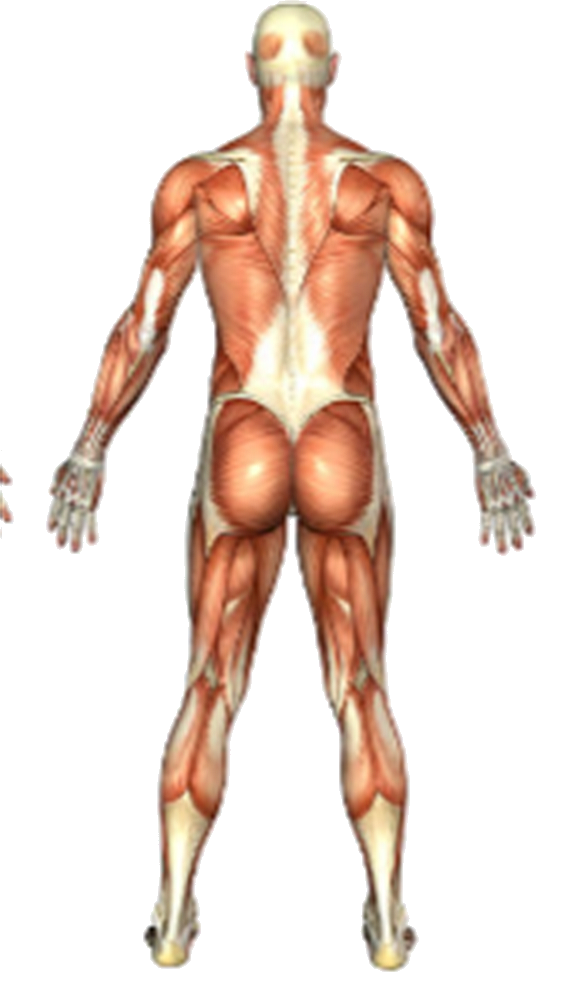
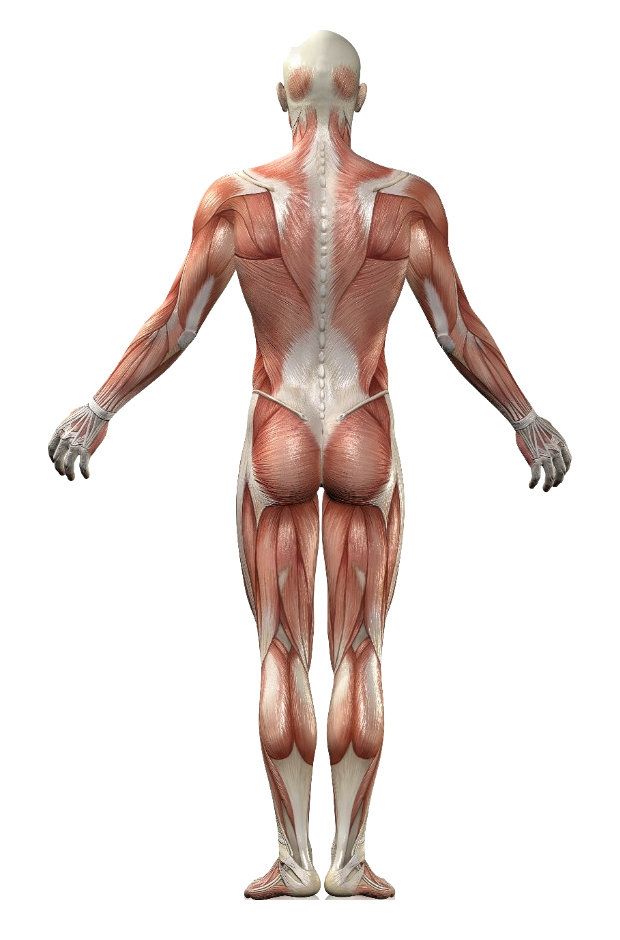
feat(anatomy): replace anatomical models with ultra-high-definition crystal clear renders

diff --git a/public/index.html b/public/index.html
@@ -1001,7 +1001,7 @@
 
                   <!-- EXACT 3D ANATOMICAL MODEL FROM USER -->
                   <g class="system-layer system-exact-model" id="layer-exact-model-front">
-                    <image href="/images/anatomy-front-clean.png" x="8" y="10" width="284" height="528" preserveAspectRatio="xMidYMid meet" class="exact-model-photo" id="exact-photo-front"/>
+                    <image href="/images/anatomy-front-clean.png" x="-24" y="10" width="348" height="528" preserveAspectRatio="xMidYMid meet" class="exact-model-photo" id="exact-photo-front"/>
                   </g>
 
                   <!-- 0. Whole Body Systemic Aura (for Fever, Fatigue, Chills, Viral) -->
@@ -1595,7 +1595,7 @@
 
                   <!-- EXACT 3D ANATOMICAL MODEL FROM USER (POSTERIOR) -->
                   <g class="system-layer system-exact-model" id="layer-exact-model-back">
-                    <image href="/images/anatomy-back-clean.png" x="12" y="10" width="276" height="528" preserveAspectRatio="xMidYMid meet" class="exact-model-photo" id="exact-photo-back"/>
+                    <image href="/images/anatomy-back-clean.png" x="-24" y="10" width="348" height="528" preserveAspectRatio="xMidYMid meet" class="exact-model-photo" id="exact-photo-back"/>
                   </g>
 
                   <!-- 0. Whole Body Systemic Aura (Back) -->
